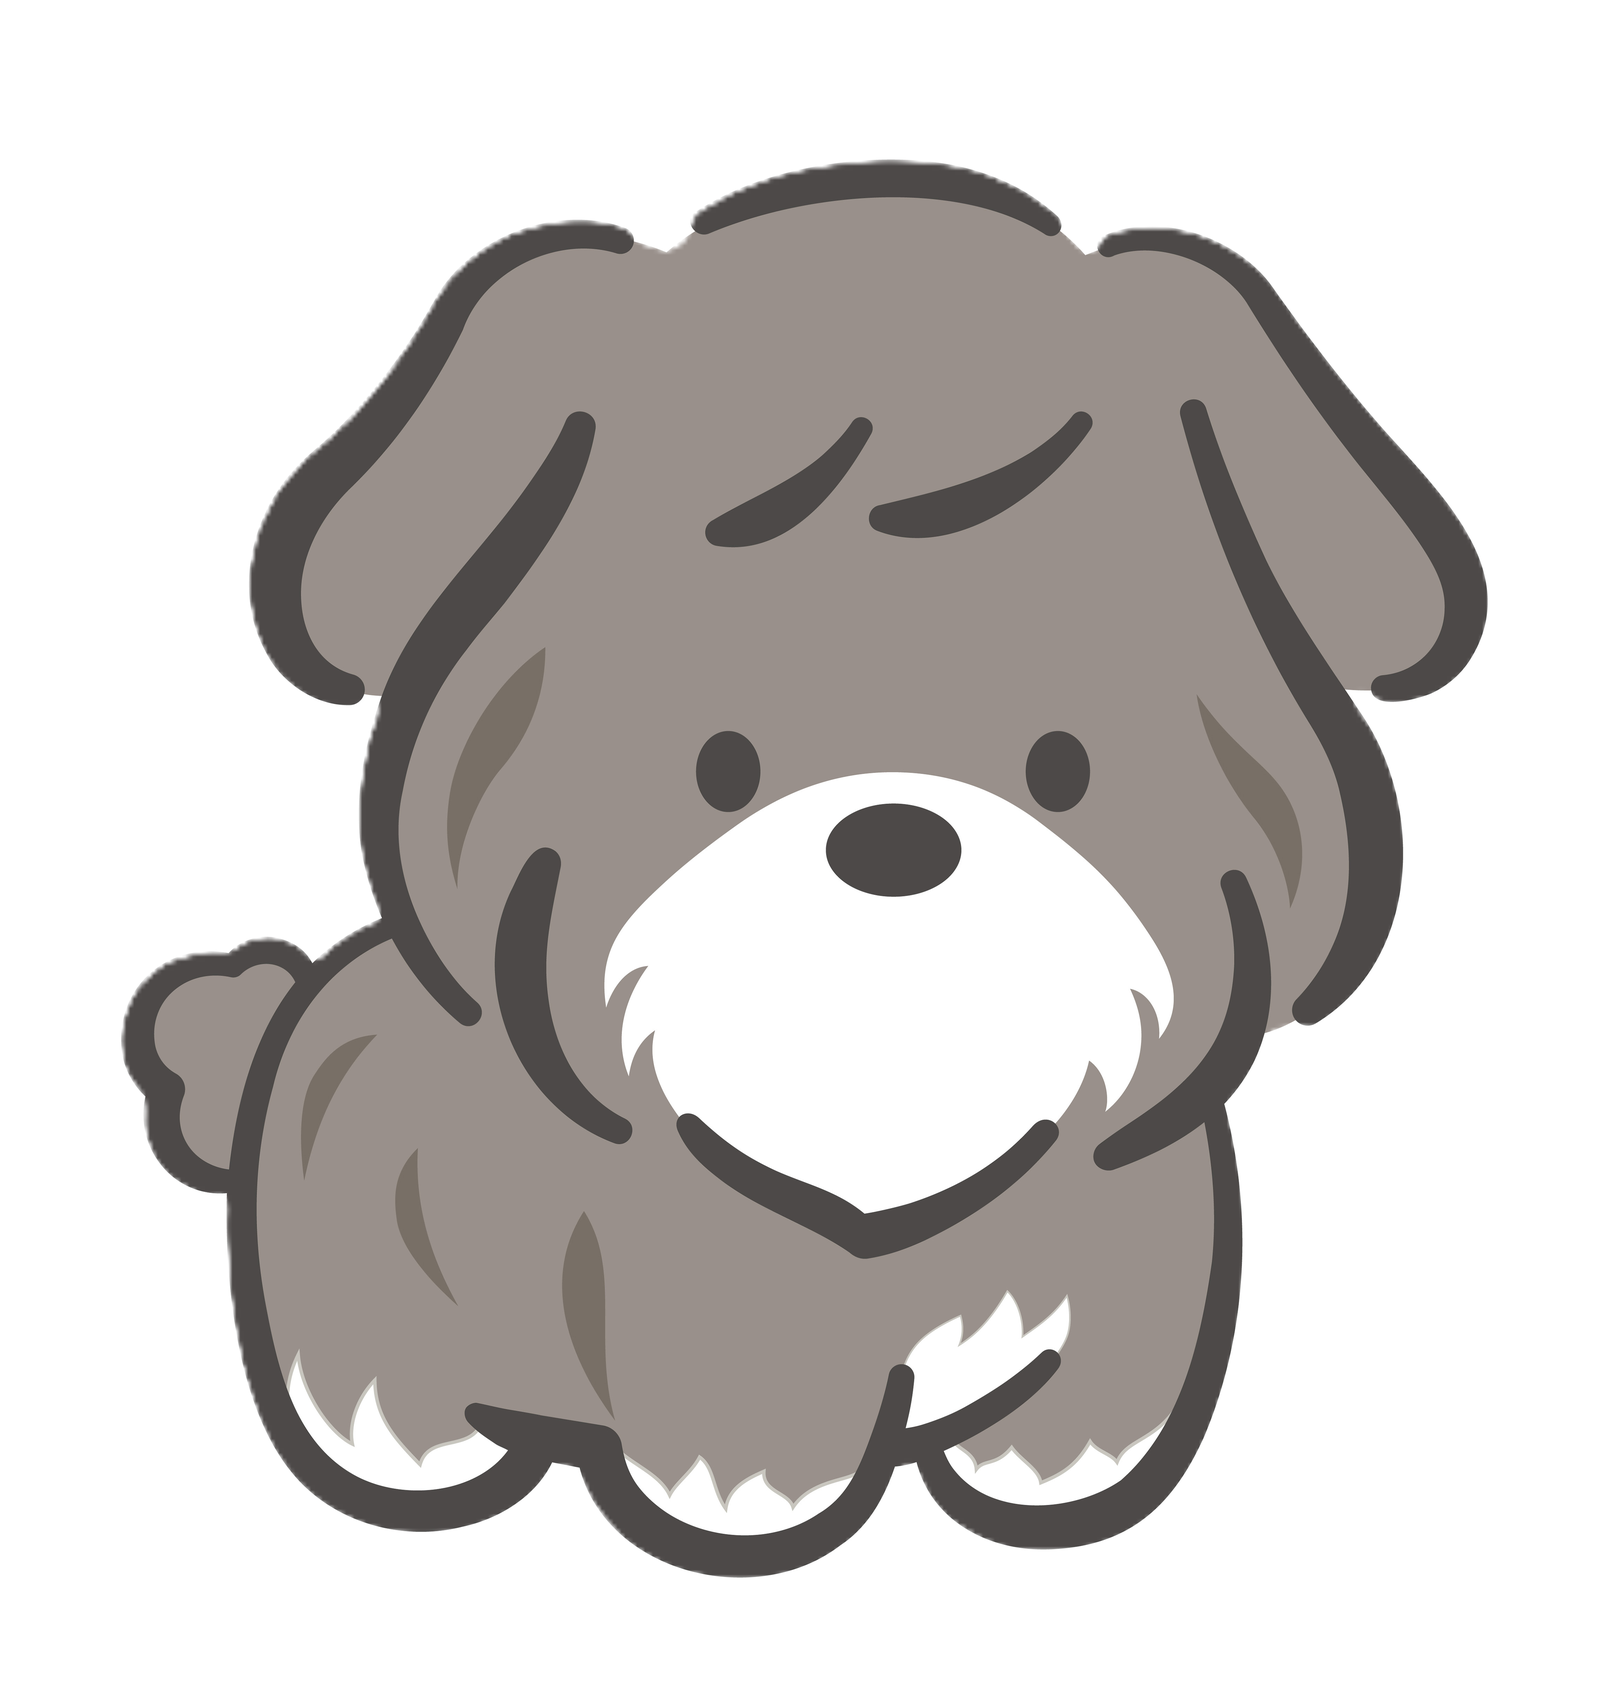
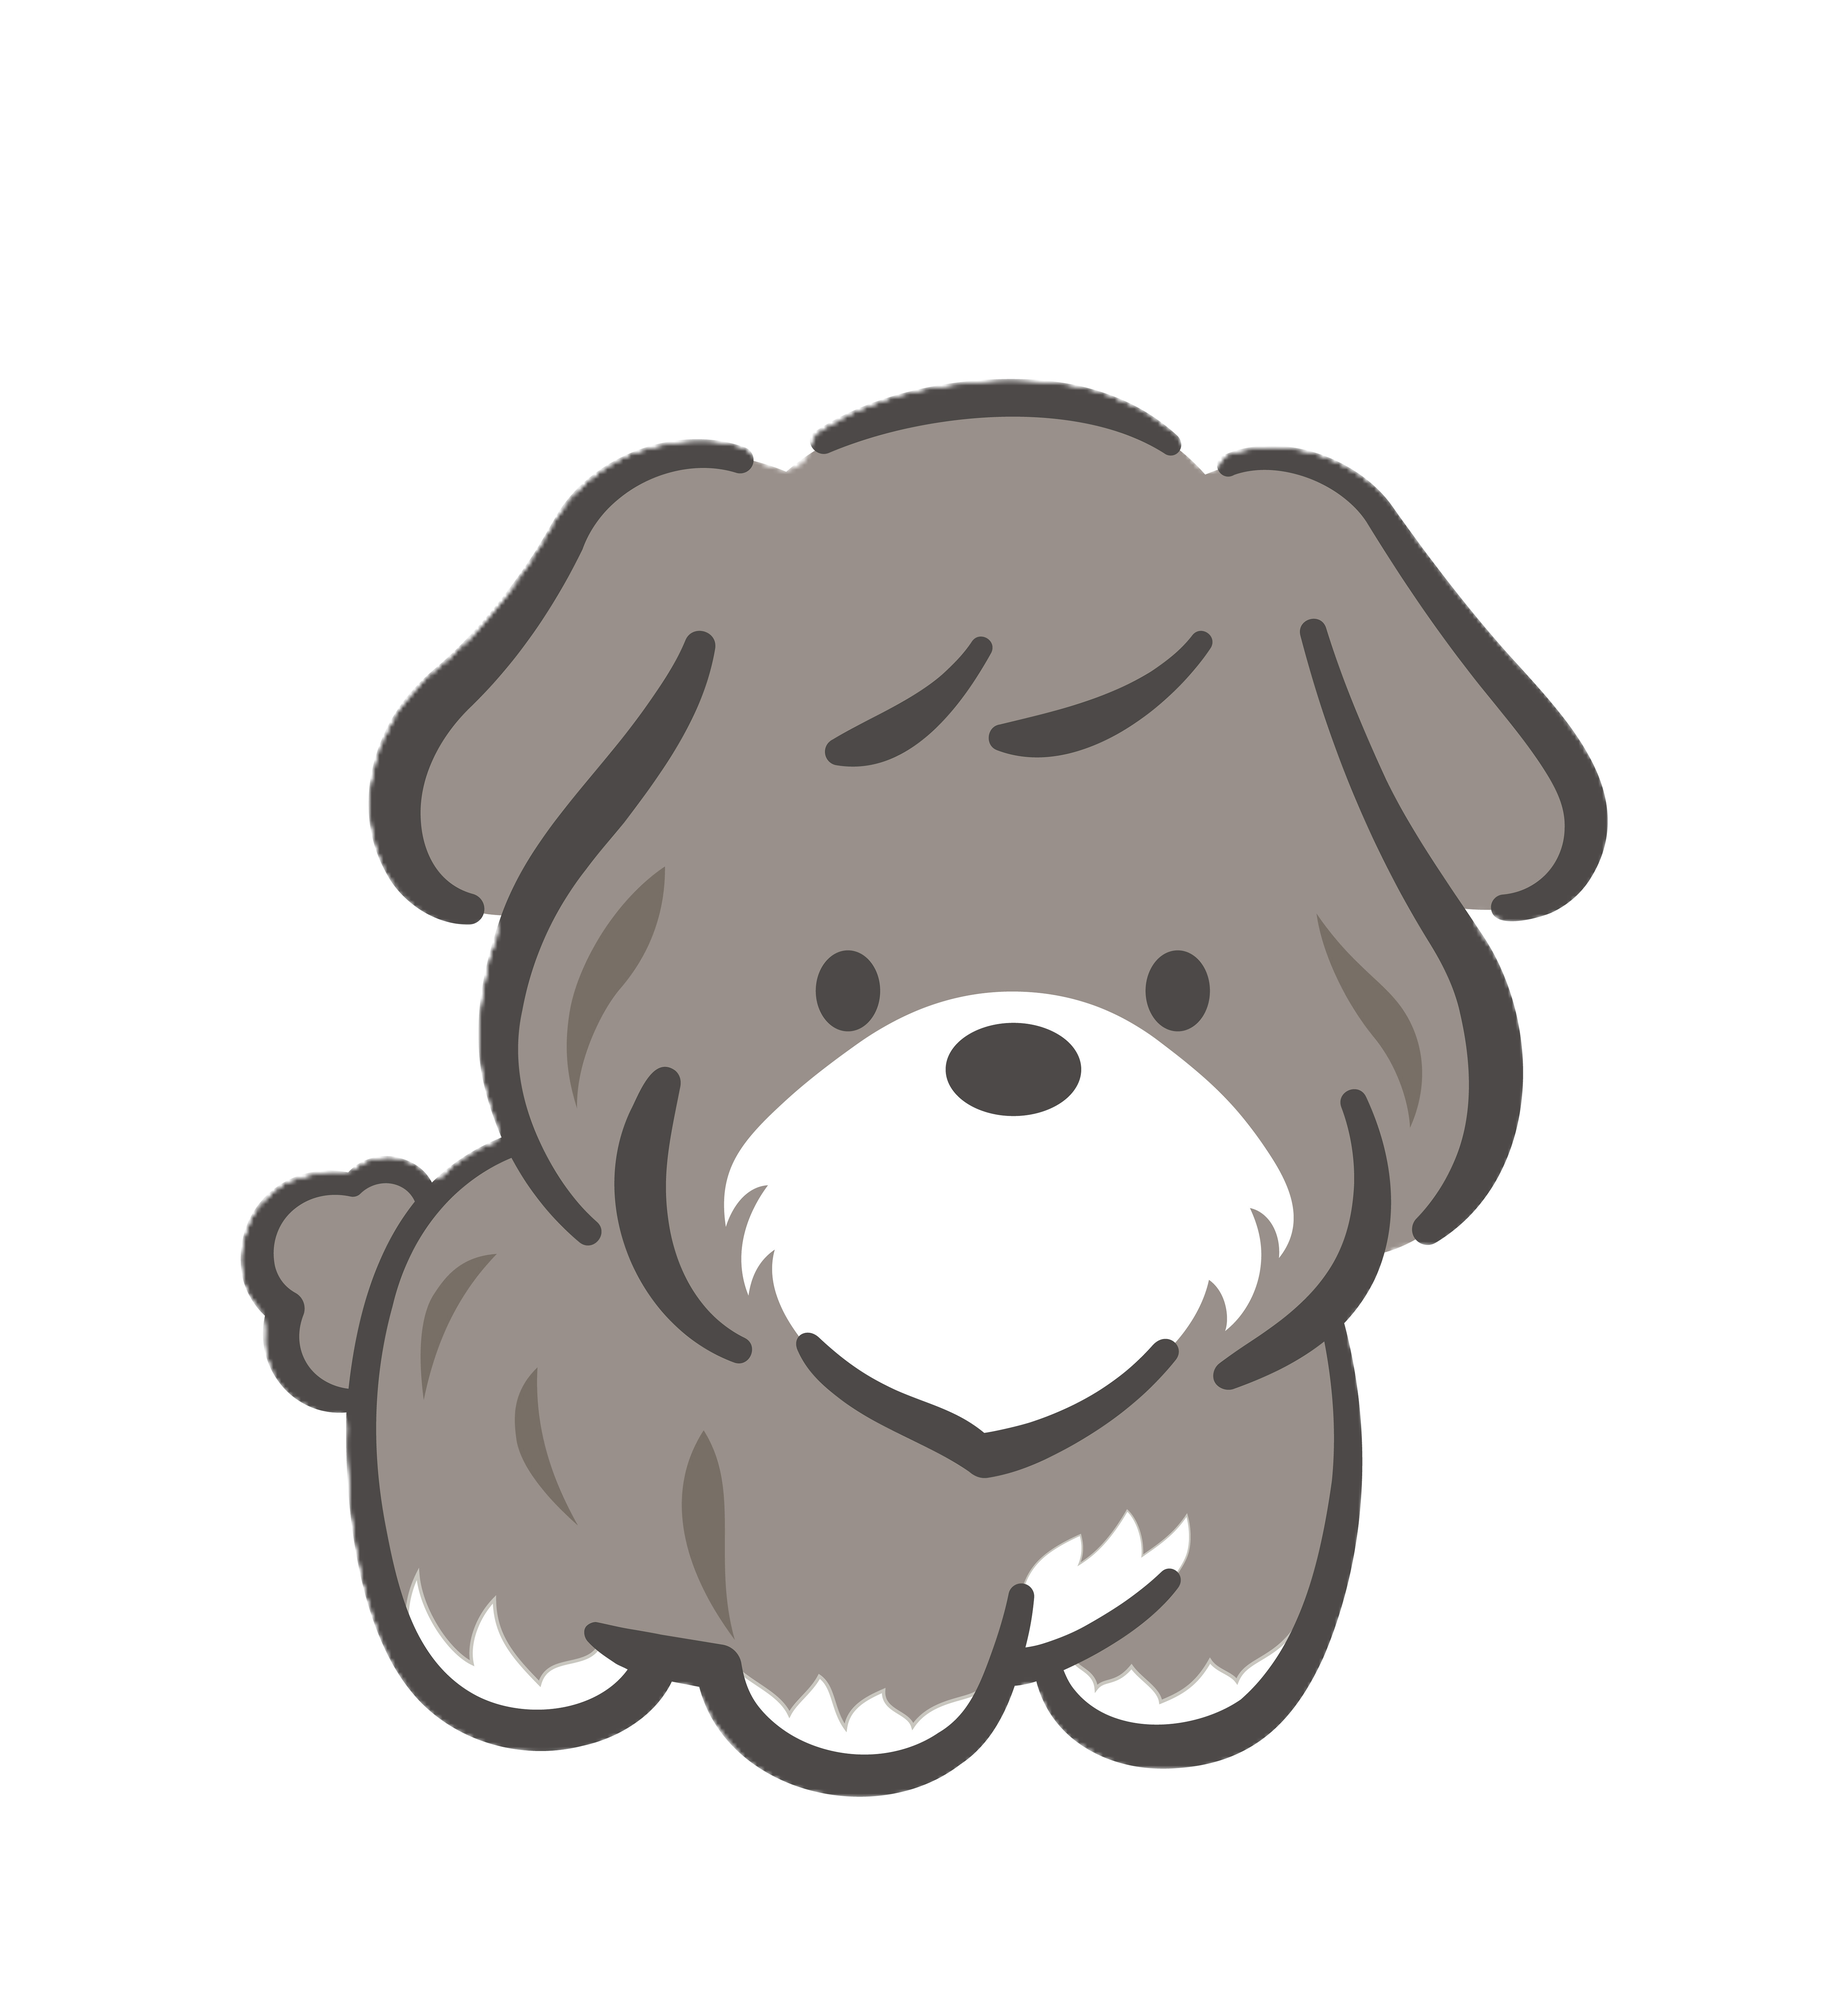
更新應用圖示，將 index.html 和 stock.html 中的圖示連結指向新的圖檔，並在 site.webmanifest 中新增 512x512 圖示支援。

Changed region(s): [[0.0622, 0.0933, 0.9336, 0.933], [0.249, 0.6842, 0.3112, 0.7775], [0.4357, 0.6842, 0.4979, 0.7153]]

diff --git a/index.html b/index.html
@@ -8,8 +8,8 @@
   <meta name="apple-mobile-web-app-capable" content="yes">
   <meta name="apple-mobile-web-app-title" content="狗狗財經">
   <link rel="manifest" href="./site.webmanifest">
-  <link rel="icon" type="image/png" href="./icons/app-icon.png">
-  <link rel="apple-touch-icon" href="./icons/app-icon.png">
+  <link rel="icon" type="image/png" href="./icons/app-icon-192.png">
+  <link rel="apple-touch-icon" sizes="180x180" href="./icons/apple-touch-icon.png">
   <link rel="stylesheet" href="./styles.css">
 </head>
 <body>

diff --git a/stock.html b/stock.html
@@ -8,8 +8,8 @@
   <meta name="apple-mobile-web-app-capable" content="yes">
   <meta name="apple-mobile-web-app-title" content="狗狗財經">
   <link rel="manifest" href="./site.webmanifest">
-  <link rel="icon" type="image/png" href="./icons/app-icon.png">
-  <link rel="apple-touch-icon" href="./icons/app-icon.png">
+  <link rel="icon" type="image/png" href="./icons/app-icon-192.png">
+  <link rel="apple-touch-icon" sizes="180x180" href="./icons/apple-touch-icon.png">
   <link rel="stylesheet" href="./styles.css">
 </head>
 <body>
